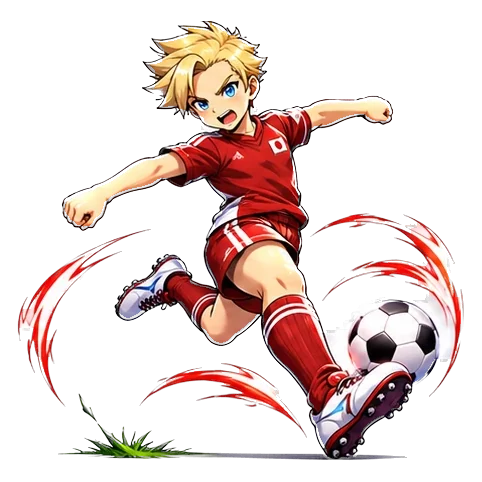
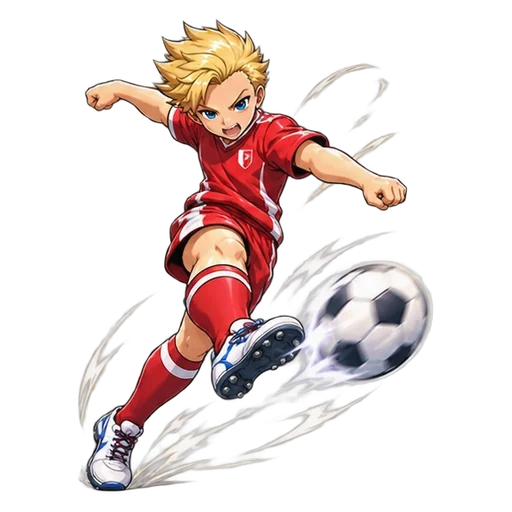
ブロンドの成長8段階と、10人の元の絵を背景が透明な版に差しかえ
- ブロンド（idea-2）の8段階の絵を新しい透明なシートから切り出して差しかえ
- 選ぶ画面の元の絵（idea-1〜idea-10）を透明なシートから切り出して差しかえ（ちゃ髪 idea-11 はそのまま）
- docs/キャラ切り出し設定.md に、透明な版の切り出し方を追記

diff --git a/docs/キャラ切り出し設定.md b/docs/キャラ切り出し設定.md
@@ -1,5 +1,9 @@
 # キャラ10人（characters-idea.webp）の切り出し設定
 
+> 2026-11-25：`characters-idea.webp` は背景が透明な版に入れかえた。今は次の1行だけで切り出せる（下の設定は灰色背景だった前の版のもの）。
+> `python tools/slice_sheet.py img/sheets/characters-idea.webp 5 2 img/chars idea-1,idea-2,idea-3,idea-4,idea-5,idea-6,idea-7,idea-8,idea-9,idea-10 --size 512 --keep 0.004`
+
+
 もう一度切り出すときは、この設定をそのまま使う（白い消し残りと、指のふちの欠けを防ぐため）。
 
 ```
